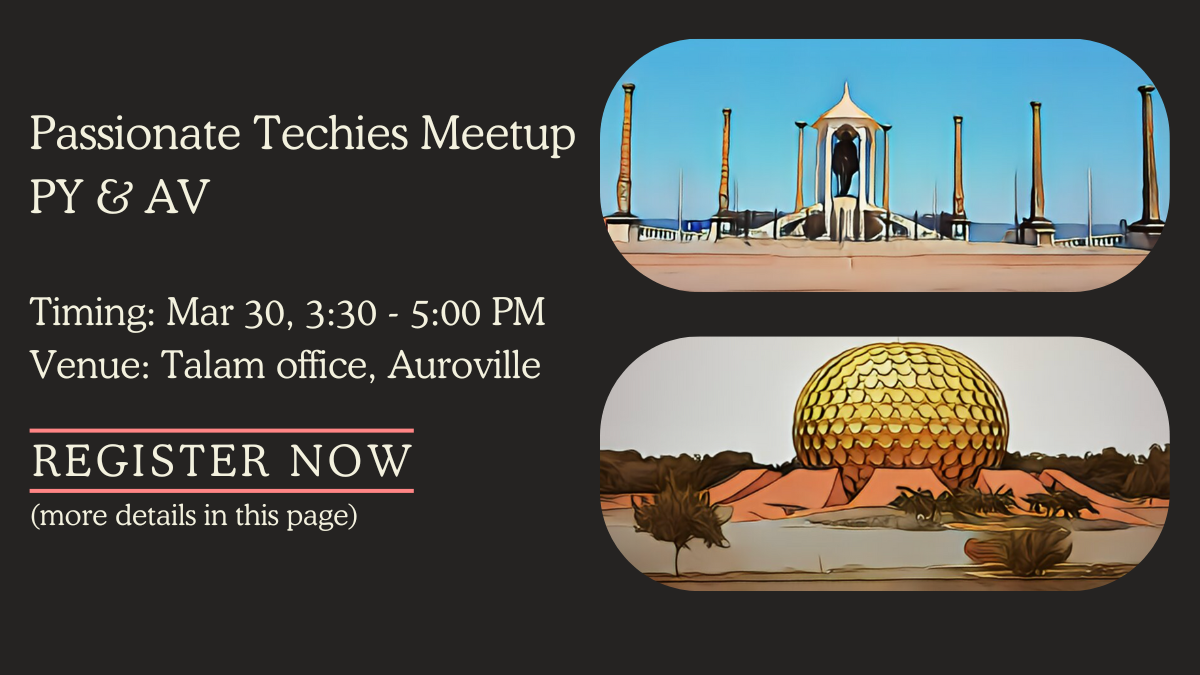
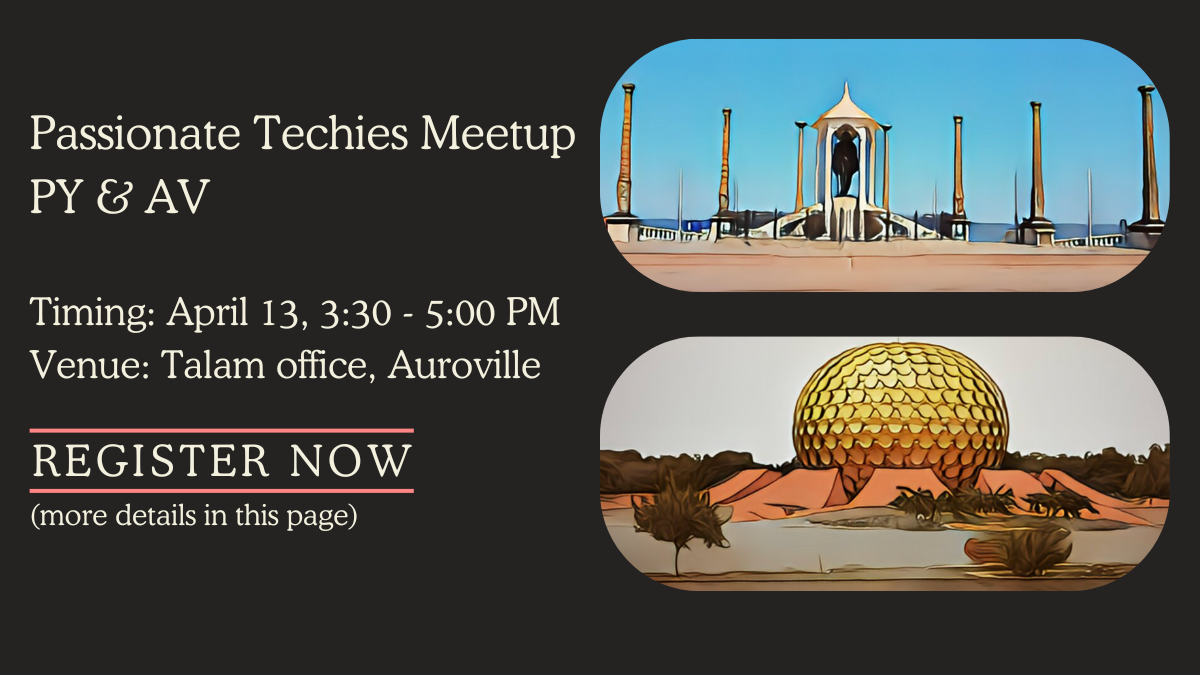
Update my meetup page for meetup on April 13

Changed region(s): [[0.1233, 0.4356, 0.4625, 0.4978]]

diff --git a/pages/_app.js b/pages/_app.js
@@ -94,13 +94,13 @@ export default function App({ Component, pageProps }) {
         <title>Passionate Techies Meetup - PY & AV</title>
         <meta
           httpEquiv="Refresh"
-          content="0; URL=https://kommunity.com/passionate-techies-meetup-group-py-av/events/passionate-techies-meetup-py-av-53749957"
+          content="0; URL=https://kommunity.com/passionate-techies-meetup-group-py-av/events/passionate-techies-meetup-py-av-d055b9af"
         />
         <meta property="og:title" content="Passionate Techies Meetup - PY & AV" />
         <meta property="og:site_name" content="Passionate Techies Meetup - PY & AV" />
         <meta
           property="og:description"
-          content="Register now for the upcoming local tech community meetup on Mar 30 from 3:30 - 5:00 PM"
+          content="Register now for the upcoming local tech community meetup on Apr 13 from 3:30 - 5:00 PM"
         />
         <meta property="og:url" content={`${siteMetadata.siteUrl}/meetup`} />
         <meta
@@ -121,7 +121,7 @@ export default function App({ Component, pageProps }) {
         <meta name="twitter:title" content="Passionate Techies Meetup - PY & AV" />
         <meta
           name="twitter:description"
-          content="Register now for the upcoming local tech community meetup on Mar 30 from 3:00 - 5:00 PM"
+          content="Register now for the upcoming local tech community meetup on Apr 13 from 3:00 - 5:00 PM"
         />
         <meta
           name="twitter:image"

diff --git a/pages/meetup.js b/pages/meetup.js
@@ -13,7 +13,7 @@ export default function Meetup(_) {
         <Link
           className="pt-8 text-primary-500 hover:text-primary-600 dark:hover:text-primary-400"
           href={
-            'https://kommunity.com/passionate-techies-meetup-group-py-av/events/passionate-techies-meetup-py-av-53749957'
+            'https://kommunity.com/passionate-techies-meetup-group-py-av/events/passionate-techies-meetup-py-av-d055b9af'
           }
         >
           {' '}
